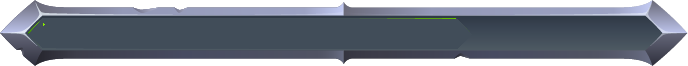
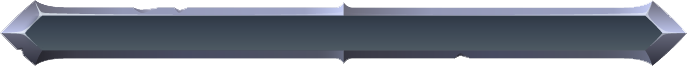
complete progressbar

diff --git a/server/config/connectdb.js b/server/config/connectdb.js
@@ -4,7 +4,7 @@ const connectDB = async () => {
   
   try {
     let url = "";
-    console.log(process.env.NODE_ENV)
+    
     if (process.env.NODE_ENV === 'production') {
         url = process.env.MONGO_URI;
     } else {

diff --git a/HeroZeroUnityProject/Assets/Scripts/GameManager.cs b/HeroZeroUnityProject/Assets/Scripts/GameManager.cs
@@ -77,11 +77,17 @@ public class GameManager : PersistentSingleton<GameManager>
         username.text = PlayerPrefs.GetString("username");
         coins.text = PlayerPrefs.GetInt("coins") + "";
         level.text = PlayerPrefs.GetInt("level") + "";
-        strength.text = PlayerPrefs.GetInt("strength") + "";
-        dodge.text = PlayerPrefs.GetInt("dodge") + "";
         skin.sprite = skinSprites[PlayerPrefs.GetInt("skin")];
 
+        int tmpstrength = PlayerPrefs.GetInt("strength");
+        int tmpdodge = PlayerPrefs.GetInt("dodge");
         var itemList = JsonConvert.DeserializeObject<List<ItemRequest>>(PlayerPrefs.GetString("items"));
+
+        foreach(ItemRequest itemRequest in itemList) {
+            tmpstrength += itemRequest.strength;
+            tmpdodge += itemRequest.dodge;
+        }
+
         foreach(GameObject item in items) {
             bool flag = false;
             foreach(ItemRequest itemRequest in itemList) {
@@ -96,5 +102,8 @@ public class GameManager : PersistentSingleton<GameManager>
                 item.SetActive(false);
             }
         }
+
+        strength.text = tmpstrength.ToString();
+        dodge.text = tmpdodge.ToString();
     }
 }

diff --git a/HeroZeroUnityProject/Assets/Scripts/UI/Timer.cs b/HeroZeroUnityProject/Assets/Scripts/UI/Timer.cs
@@ -7,6 +7,7 @@ using TMPro;
 public class Timer : MonoBehaviour
 {
     public static Timer Instance;
+    public Image loadingbar;
 
     public TextMeshProUGUI TimerText;
 
@@ -43,8 +44,12 @@ public class Timer : MonoBehaviour
     // Update is called once per frame
     void Update()
     {
-        if(isRunning)
+        if(isRunning) {
             TimerText.text = GetTImeValueFormated();
+            loadingbar.fillAmount = 1 - CurrentTime/MaxTime;
+        } else {
+            loadingbar.fillAmount = 0;
+        }
     }
 
     public void ResetTimer()
@@ -83,6 +88,8 @@ public class Timer : MonoBehaviour
             isRunning = true;
         CurrentTime = startTime;
         MaxTime = startTime;
+        loadingbar.fillAmount = 0;
+        loadingbar.gameObject.SetActive(true);
         TimerText.text = GetTImeValueFormated();
     }
 
@@ -92,6 +99,8 @@ public class Timer : MonoBehaviour
         {
             CurrentTime = MaxTime;
             isRunning = false;
+            loadingbar.fillAmount = 0;
+            loadingbar.gameObject.SetActive(false);
             CancelInvoke("TimerTickMS");
         }
 

diff --git a/HeroZeroUnityProject/Assets/Scripts/AuthManager.cs b/HeroZeroUnityProject/Assets/Scripts/AuthManager.cs
@@ -109,7 +109,7 @@ namespace HeroZero
             {
                 Debug.Log(uwr.downloadHandler.text);
                 LoginResponse response = JsonConvert.DeserializeObject<LoginResponse>(uwr.downloadHandler.text);
-            
+                
                 if (response.status == "success")
                 {
                     Debug.Log("Login Successful");
